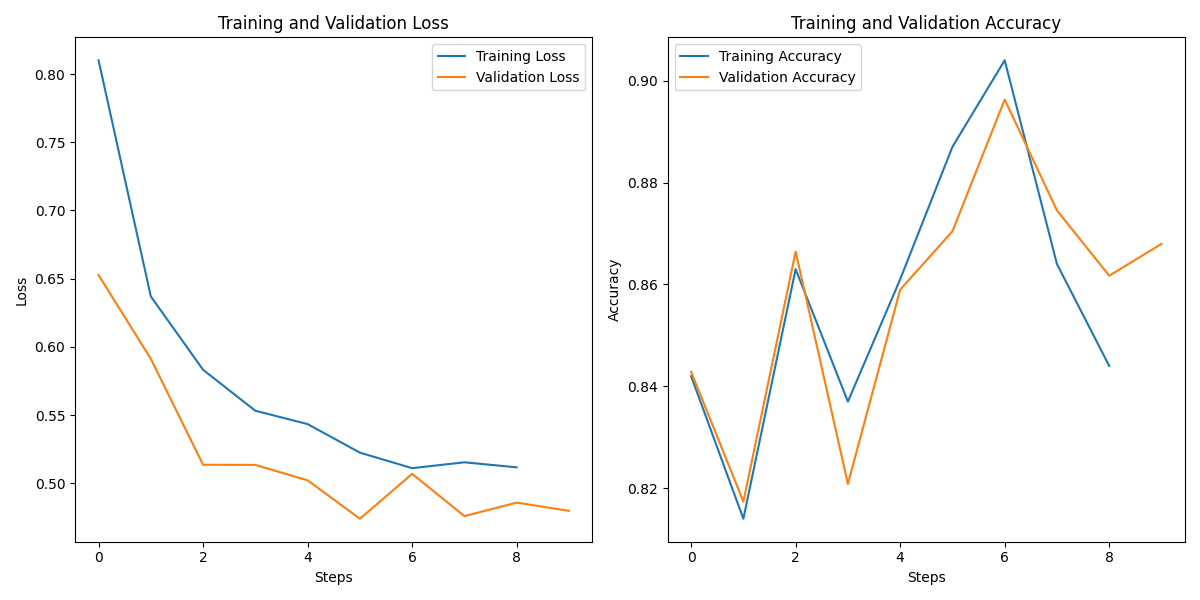
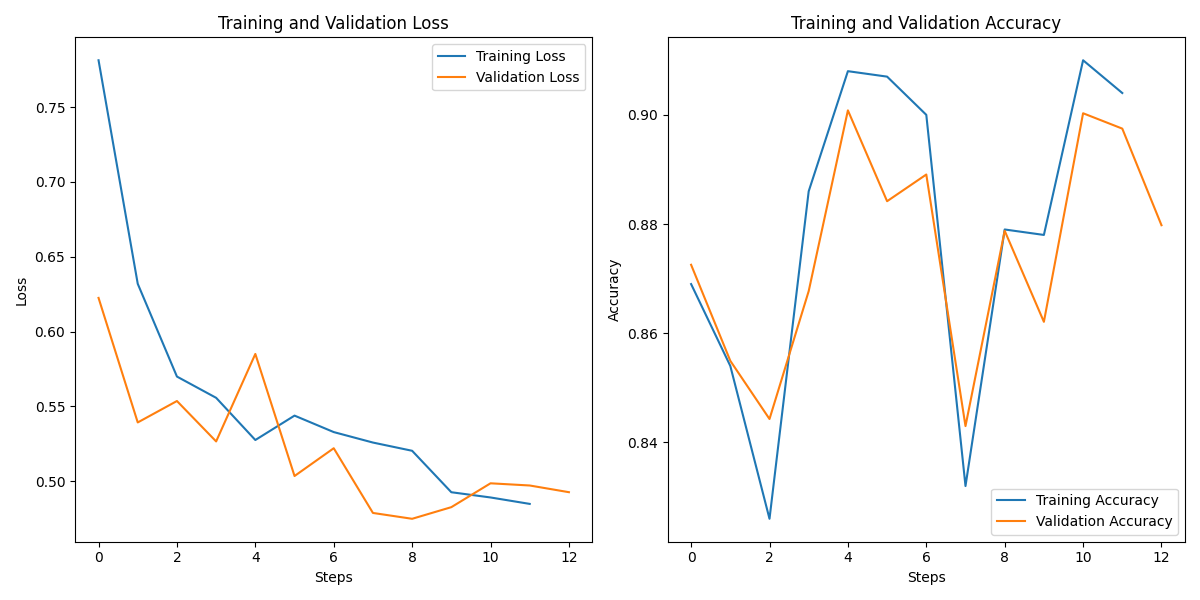
early stopping 2

diff --git a/dataset_wrapper.py b/dataset_wrapper.py
@@ -117,10 +117,10 @@ def plot_review_length_distribution(reviews):
 
 def fetch_data(path, sampling_method='over'):
     raw_reviews, raw_labels = read_dataset(path)
-    #plot_label_distribution(raw_labels)
-    #plot_review_length_distribution(raw_reviews)
+    plot_label_distribution(raw_labels)
+    plot_review_length_distribution(raw_reviews)
 
-    return raw_reviews, raw_labels
+    # return raw_reviews, raw_labels
     #preprocessed_reviews = preprocess_reviews(raw_reviews)
     #balanced_reviews, balanced_labels = balance_dataset(preprocessed_reviews, raw_labels, sampling_method)
 
@@ -132,9 +132,9 @@ def fetch_data(path, sampling_method='over'):
     # plot_label_distribution(balanced_labels)
     # plot_review_length_distribution(balanced_reviews)
 
-    #plot_distribution_per_name(name_hash)
+    # plot_distribution_per_name(name_hash)
 
-    return balanced_reviews, balanced_labels
+    # return balanced_reviews, balanced_labels
 
 
 #fetch_data('dataset/text.txt', sampling_method='under')
@@ -142,4 +142,4 @@ def fetch_data(path, sampling_method='over'):
 #fetch_data('dataset/text.txt', sampling_method='over')
 #fetch_data('dataset/finefoods.txt', sampling_method='under')
 #fetch_data('dataset/finefoods.txt', sampling_method='over')
-#fetch_data('dataset/finefoods.txt', sampling_method='none')
+fetch_data('dataset/finefoods.txt', sampling_method='none')

diff --git a/main.py b/main.py
@@ -129,11 +129,11 @@ class FineTuningConfig:
         self.save_total_limit = 1 
 
         # File Paths and Directories
-        self.output_dir = './results/WEIGHTED_EARLY_STOPPING' # Directory to save the model
+        self.output_dir = './results/WEIGHTED_EARLY_STOPPING_2' # Directory to save the model
         self.logging_dir = './logs'   # Directory to save logs
 
         # Dataset Splitting Parameters
-        self.validation_split = 0.2  # Portion of the data for validation
+        self.validation_split = 0.1  # Portion of the data for validation
         self.test_split = 0.5        # Portion of the validation data for testing
         self.random_state = 42       # Random state for reproducibility
 
@@ -246,5 +246,5 @@ plt.ylabel('Accuracy')
 plt.legend()
 
 plt.tight_layout()
-plt.savefig('training_validation_metrics_WEIGHTED_EARLY_STOPPING.png', dpi=100)
+plt.savefig('training_validation_metrics_WEIGHTED_EARLY_STOPPING_2.png', dpi=100)
 plt.show()
